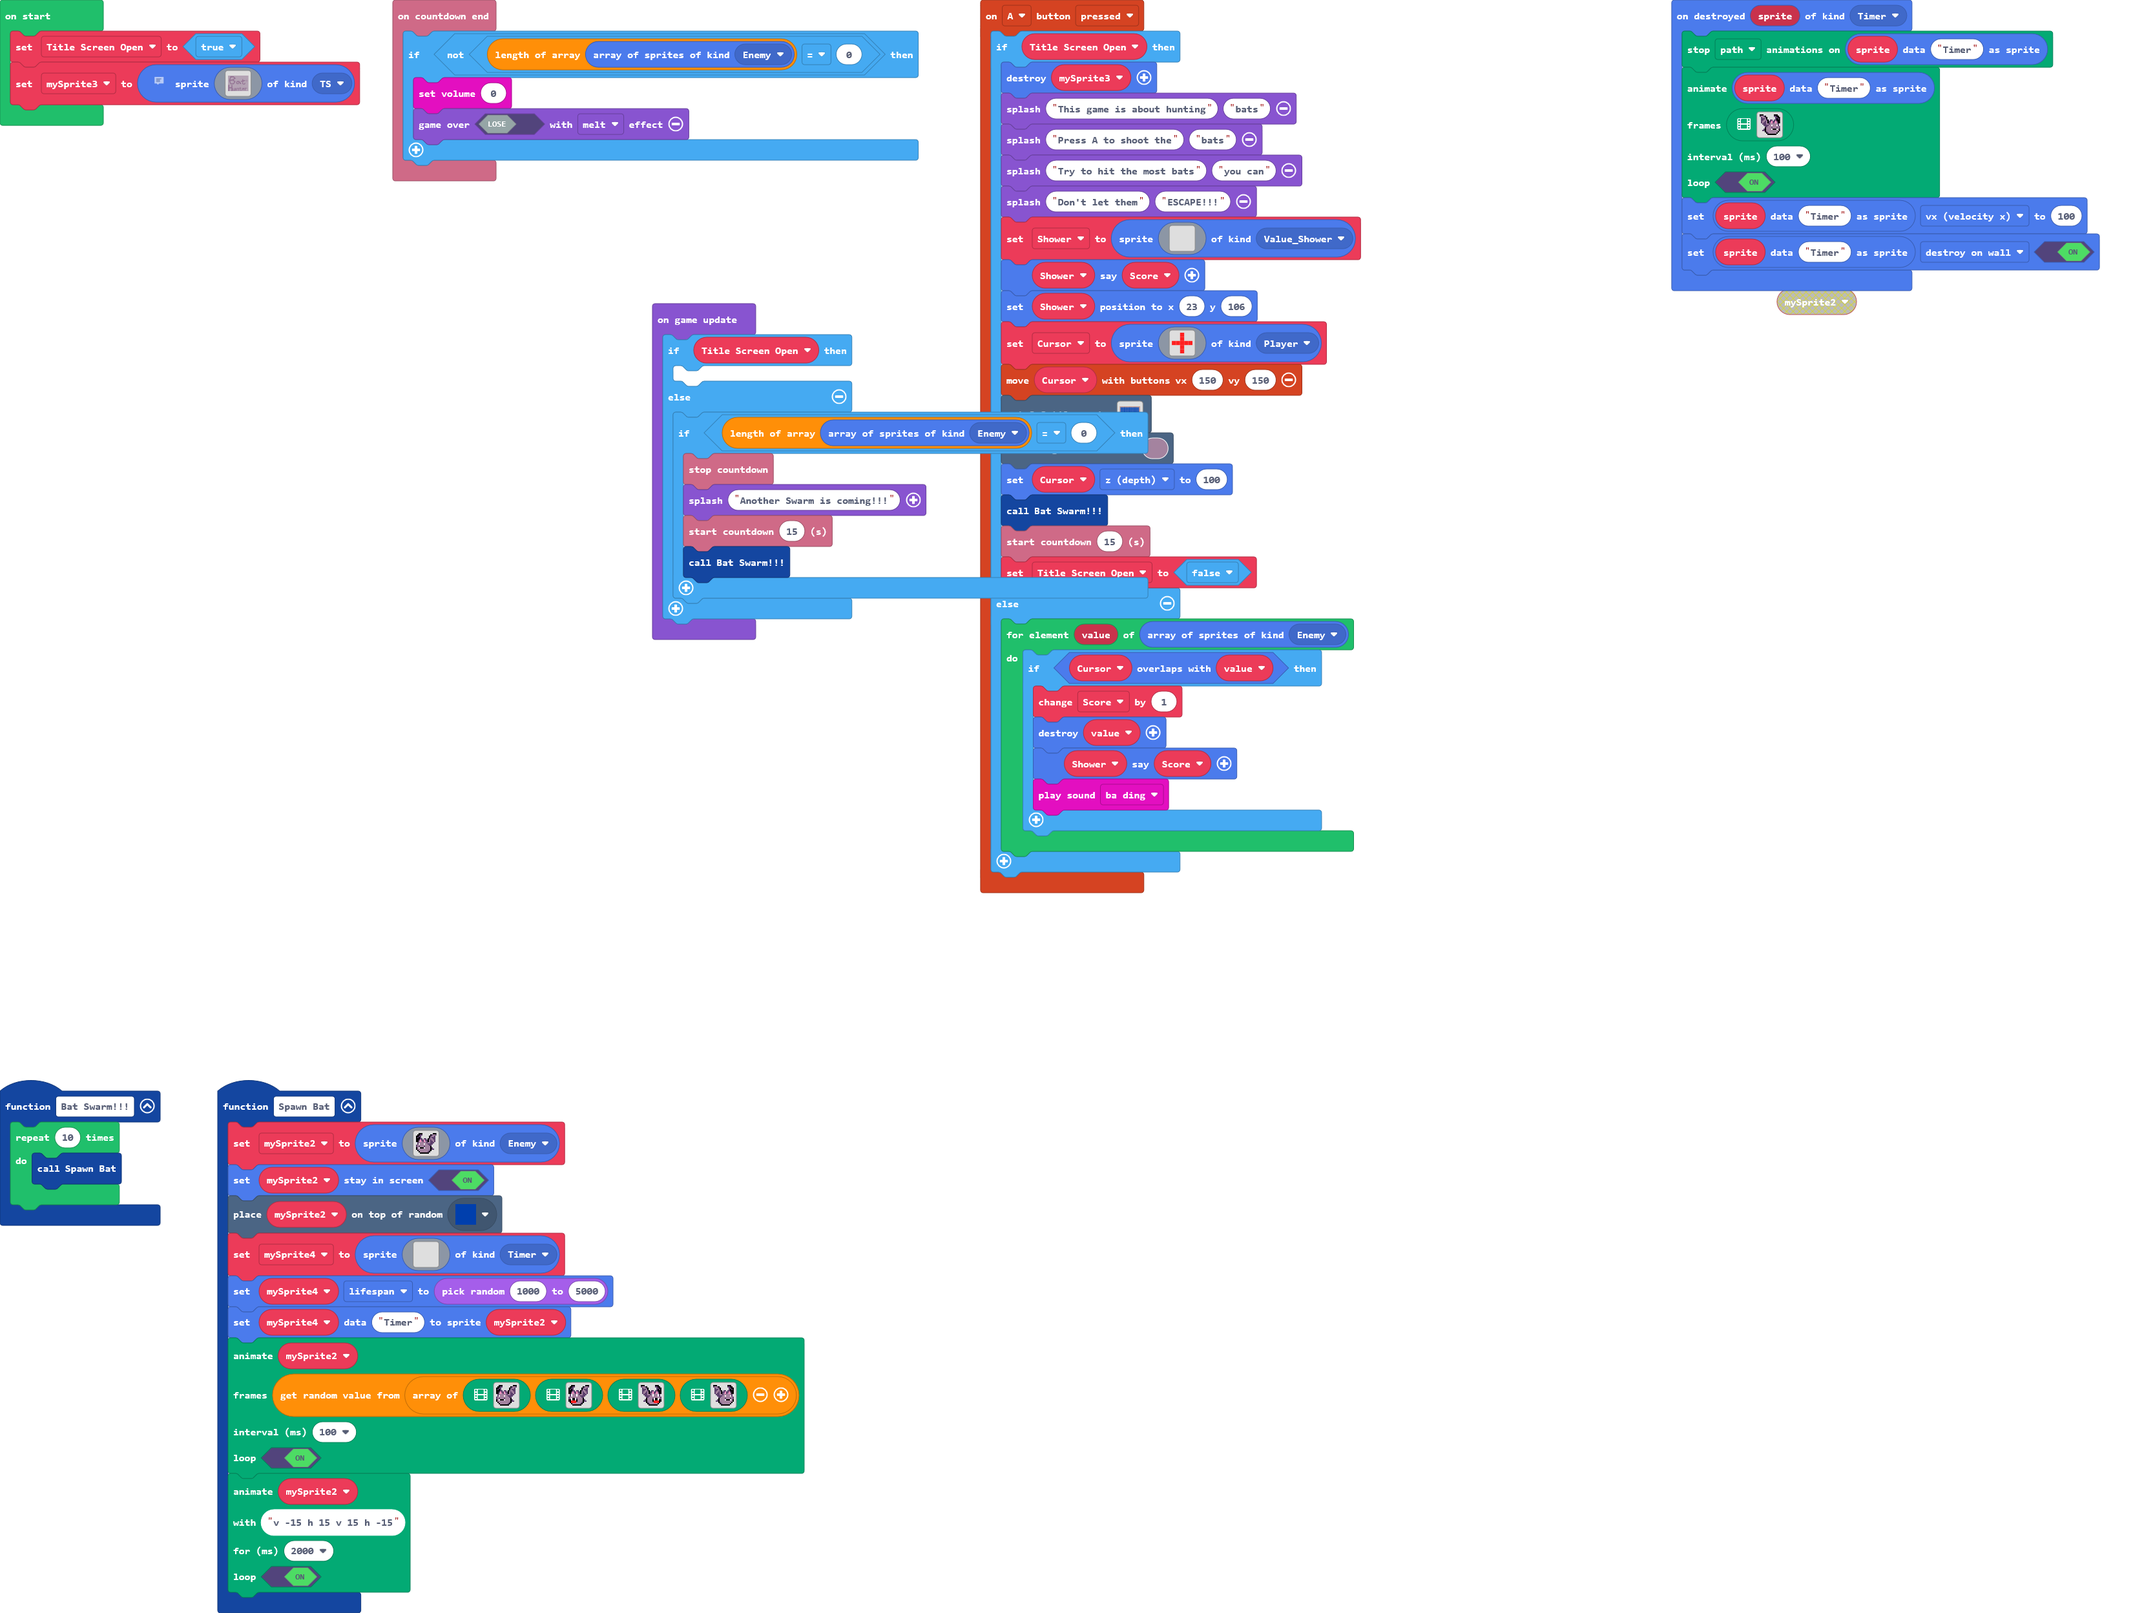
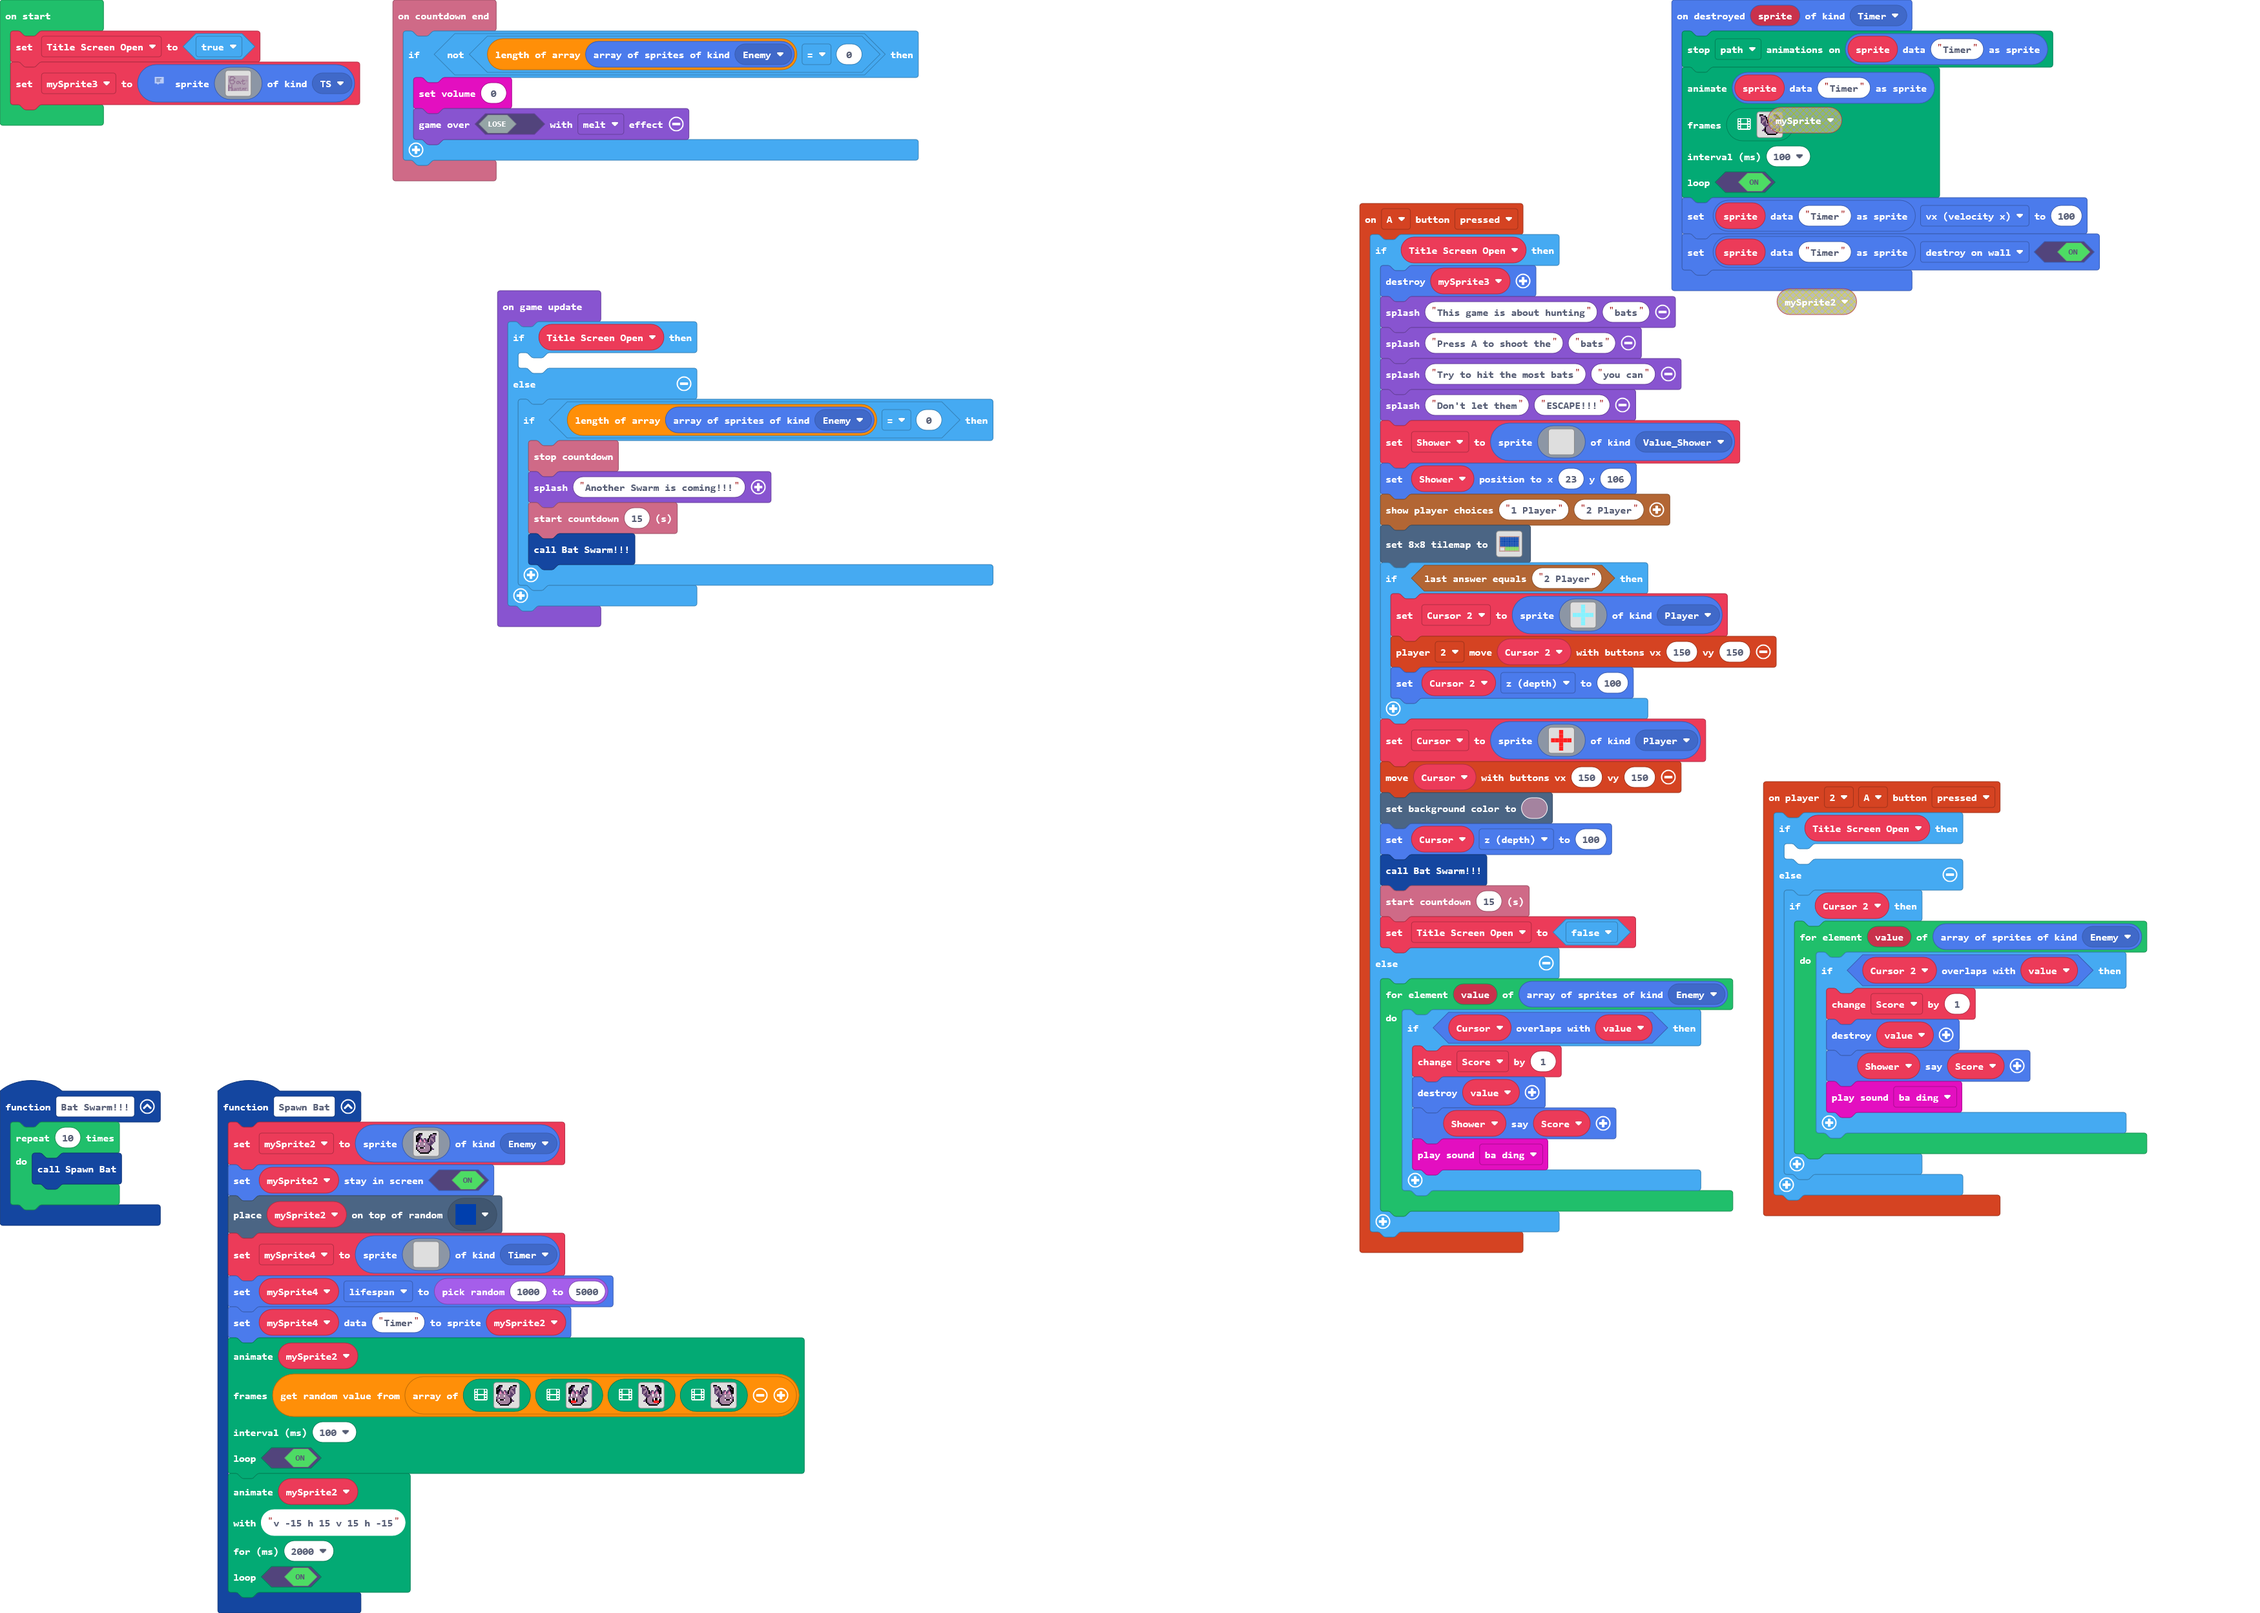
Added a way to play 2 player

Changed region(s): [[0.0, 0.0, 0.9982, 0.7809], [0.0936, 0.656, 0.3743, 1.0], [0.0, 0.6872, 0.0624, 0.7497]]

diff --git a/tilemap.g.ts b/tilemap.g.ts
@@ -90,6 +90,44 @@ namespace myTiles {
 . . . . . . . . . . . . . . . . 
 . . . . . . . . . . . . . . . . 
 `, [myTiles.transparency8], TileScale.Eight);
+            case "level5":
+            case "level5":return tiles.createTilemap(hex`1000100000000000000000000000000000000000000000000000000000000000000000000000000000000000000000000000000000000000000000000000000000000000000000000000000000000000000000000000000000000000000000000000000000000000000000000000000000000000000000000000000000000000000000000000000000000000000000000000000000000000000000000000000000000000000000000000000000000000000000000000000000000000000000000000000000000000000000000000000000000000000000000000000000000000000000000000000000000000000000000000000000000000000000000000000000000000`, img`
+. . . . . . . . . . . . . . . . 
+. . . . . . . . . . . . . . . . 
+. . . . . . . . . . . . . . . . 
+. . . . . . . . . . . . . . . . 
+. . . . . . . . . . . . . . . . 
+. . . . . . . . . . . . . . . . 
+. . . . . . . . . . . . . . . . 
+. . . . . . . . . . . . . . . . 
+. . . . . . . . . . . . . . . . 
+. . . . . . . . . . . . . . . . 
+. . . . . . . . . . . . . . . . 
+. . . . . . . . . . . . . . . . 
+. . . . . . . . . . . . . . . . 
+. . . . . . . . . . . . . . . . 
+. . . . . . . . . . . . . . . . 
+. . . . . . . . . . . . . . . . 
+`, [myTiles.transparency8], TileScale.Eight);
+            case "level6":
+            case "level6":return tiles.createTilemap(hex`1000100000000000000000000000000000000000000000000000000000000000000000000000000000000000000000000000000000000000000000000000000000000000000000000000000000000000000000000000000000000000000000000000000000000000000000000000000000000000000000000000000000000000000000000000000000000000000000000000000000000000000000000000000000000000000000000000000000000000000000000000000000000000000000000000000000000000000000000000000000000000000000000000000000000000000000000000000000000000000000000000000000000000000000000000000000000000`, img`
+. . . . . . . . . . . . . . . . 
+. . . . . . . . . . . . . . . . 
+. . . . . . . . . . . . . . . . 
+. . . . . . . . . . . . . . . . 
+. . . . . . . . . . . . . . . . 
+. . . . . . . . . . . . . . . . 
+. . . . . . . . . . . . . . . . 
+. . . . . . . . . . . . . . . . 
+. . . . . . . . . . . . . . . . 
+. . . . . . . . . . . . . . . . 
+. . . . . . . . . . . . . . . . 
+. . . . . . . . . . . . . . . . 
+. . . . . . . . . . . . . . . . 
+. . . . . . . . . . . . . . . . 
+. . . . . . . . . . . . . . . . 
+. . . . . . . . . . . . . . . . 
+`, [myTiles.transparency8], TileScale.Eight);
         }
         return null;
     })

diff --git a/main.ts b/main.ts
@@ -13,8 +13,20 @@ controller.A.onEvent(ControllerButtonEvent.Pressed, function () {
         Shower = sprites.create(img`
             . 
             `, SpriteKind.Value_Shower)
-        Shower.say(Score)
         Shower.setPosition(23, 106)
+        story.showPlayerChoices("1 Player", "2 Player")
+        tiles.setSmallTilemap(tilemap`level2`)
+        if (story.checkLastAnswer("2 Player")) {
+            Cursor_2 = sprites.create(img`
+                . . 9 . . 
+                . . 9 . . 
+                9 9 9 9 9 
+                . . 9 . . 
+                . . 9 . . 
+                `, SpriteKind.Player)
+            controller.player2.moveSprite(Cursor_2, 150, 150)
+            Cursor_2.z = 100
+        }
         Cursor = sprites.create(img`
             . . 2 . . 
             . . 2 . . 
@@ -23,7 +35,6 @@ controller.A.onEvent(ControllerButtonEvent.Pressed, function () {
             . . 2 . . 
             `, SpriteKind.Player)
         controller.moveSprite(Cursor, 150, 150)
-        tiles.setSmallTilemap(tilemap`level2`)
         scene.setBackgroundColor(11)
         Cursor.z = 100
         Bat_Swarm()
@@ -36,6 +47,22 @@ controller.A.onEvent(ControllerButtonEvent.Pressed, function () {
                 value.destroy()
                 Shower.say(Score)
                 music.baDing.play()
+            }
+        }
+    }
+})
+controller.player2.onButtonEvent(ControllerButton.A, ControllerButtonEvent.Pressed, function () {
+    if (Title_Screen_Open) {
+    	
+    } else {
+        if (Cursor_2) {
+            for (let value of sprites.allOfKind(SpriteKind.Enemy)) {
+                if (Cursor_2.overlapsWith(value)) {
+                    Score += 1
+                    value.destroy()
+                    Shower.say(Score)
+                    music.baDing.play()
+                }
             }
         }
     }
@@ -458,8 +485,9 @@ sprites.onDestroyed(SpriteKind.Timer, function (sprite) {
 })
 let mySprite4: Sprite = null
 let mySprite2: Sprite = null
-let Cursor: Sprite = null
 let Score = 0
+let Cursor: Sprite = null
+let Cursor_2: Sprite = null
 let Shower: Sprite = null
 let mySprite3: Sprite = null
 let Title_Screen_Open = false
